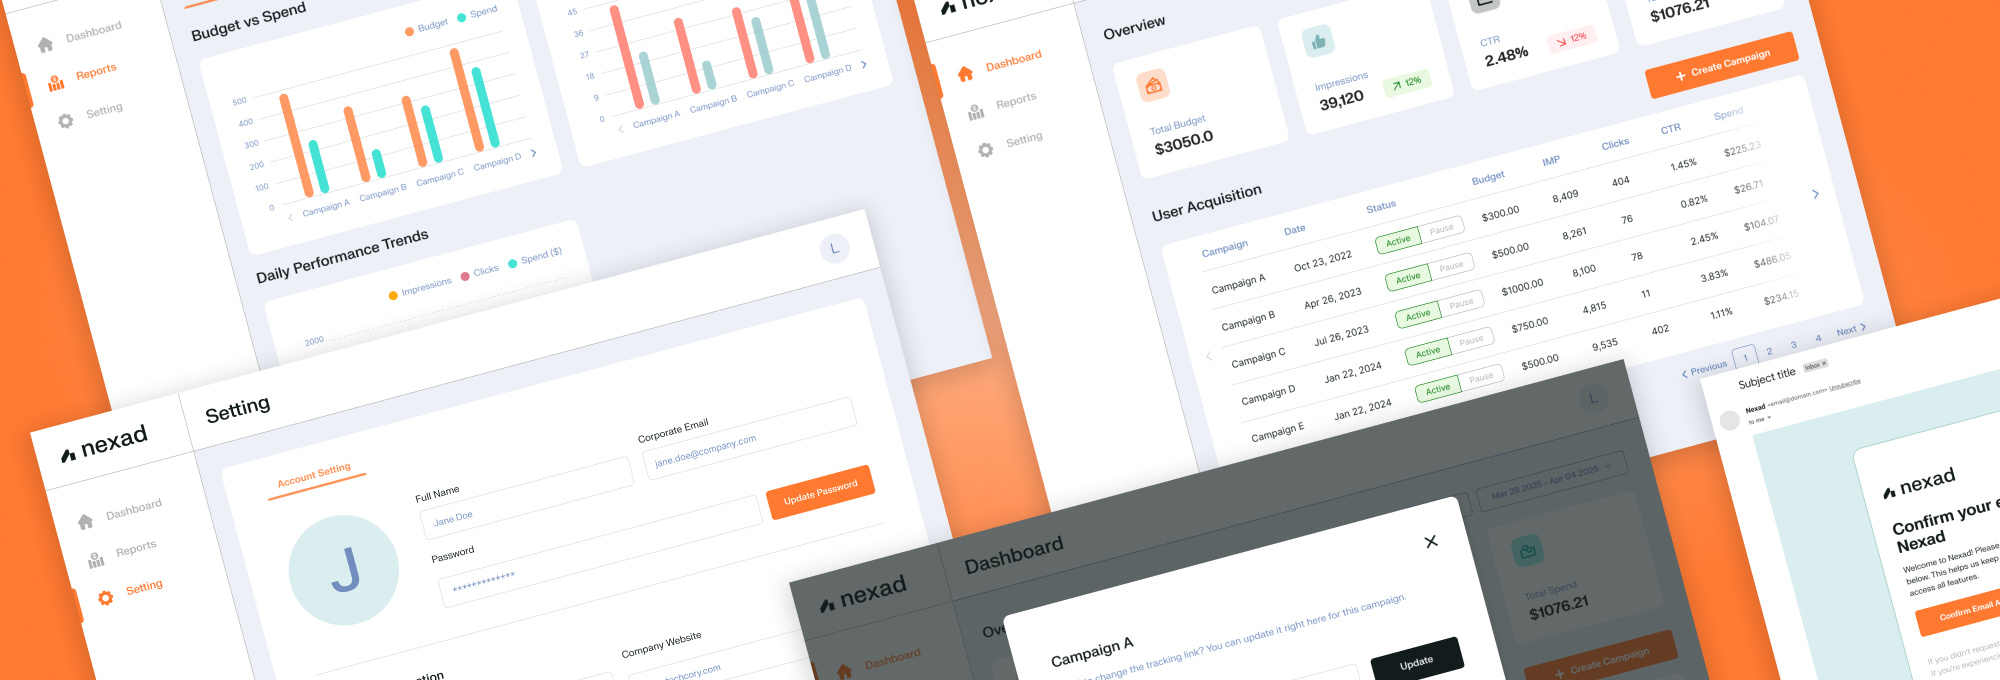
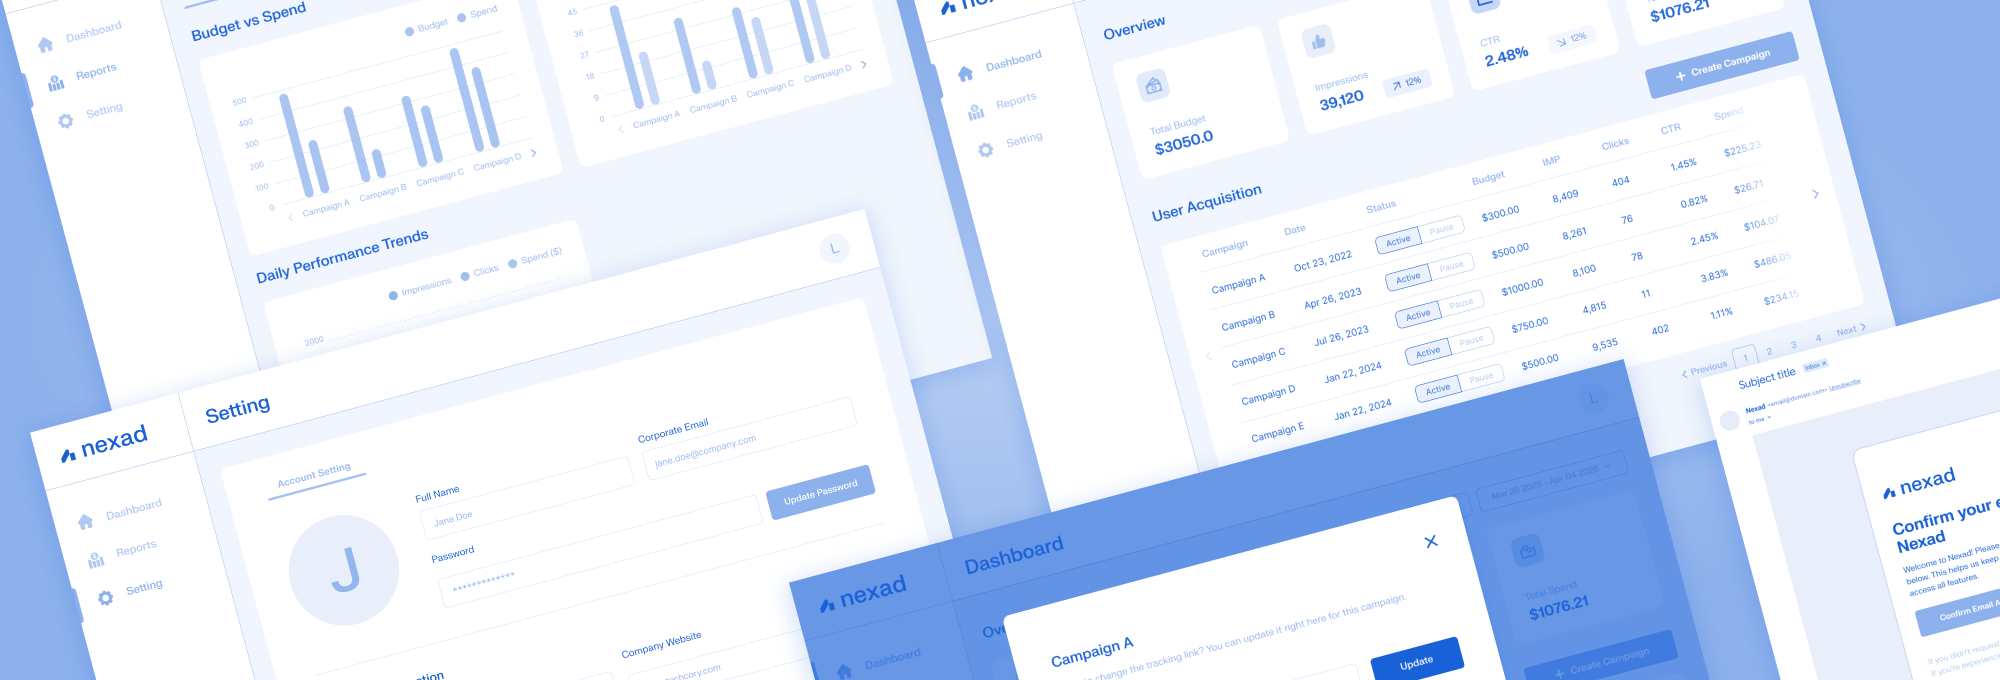
1

diff --git a/style.css b/style.css
@@ -333,7 +333,7 @@ a.card {
 
 .portfolio-categories-centered .not-current:hover {
   color: white;
-  background-color: black;
+  background-color: #0050d4;
 }
 
 .portfolio-items {
@@ -393,7 +393,7 @@ a.card {
   width: 100%;
   background-color: rgba(237, 237, 237, 0.33);
   border: 0 solid #0050d4;
-  outline: 1px solid transparent;
+  outline: 1px solid rgba(0,80,212,0.33);
   padding: 16px;
   overflow: hidden;
   transition: opacity 0.3s ease-out, transform 0.3s ease-out, background-color 0.3s ease;
@@ -421,9 +421,22 @@ a.card {
 }
 
 .card:hover {
-  border: 0 solid #0050d4;
-  outline: 1px solid #0050d4;
+  border: 0 solid #000;
+  outline: 1px solid #000;
   background-color: #ededed;
+}
+
+.card:hover h2{
+  color: #000;
+}
+
+.card:hover p{
+  color: #000;
+}
+
+.card:hover .tags span{
+  color: #000;
+  border: 1px solid #000;
 }
 
 .card-image {
